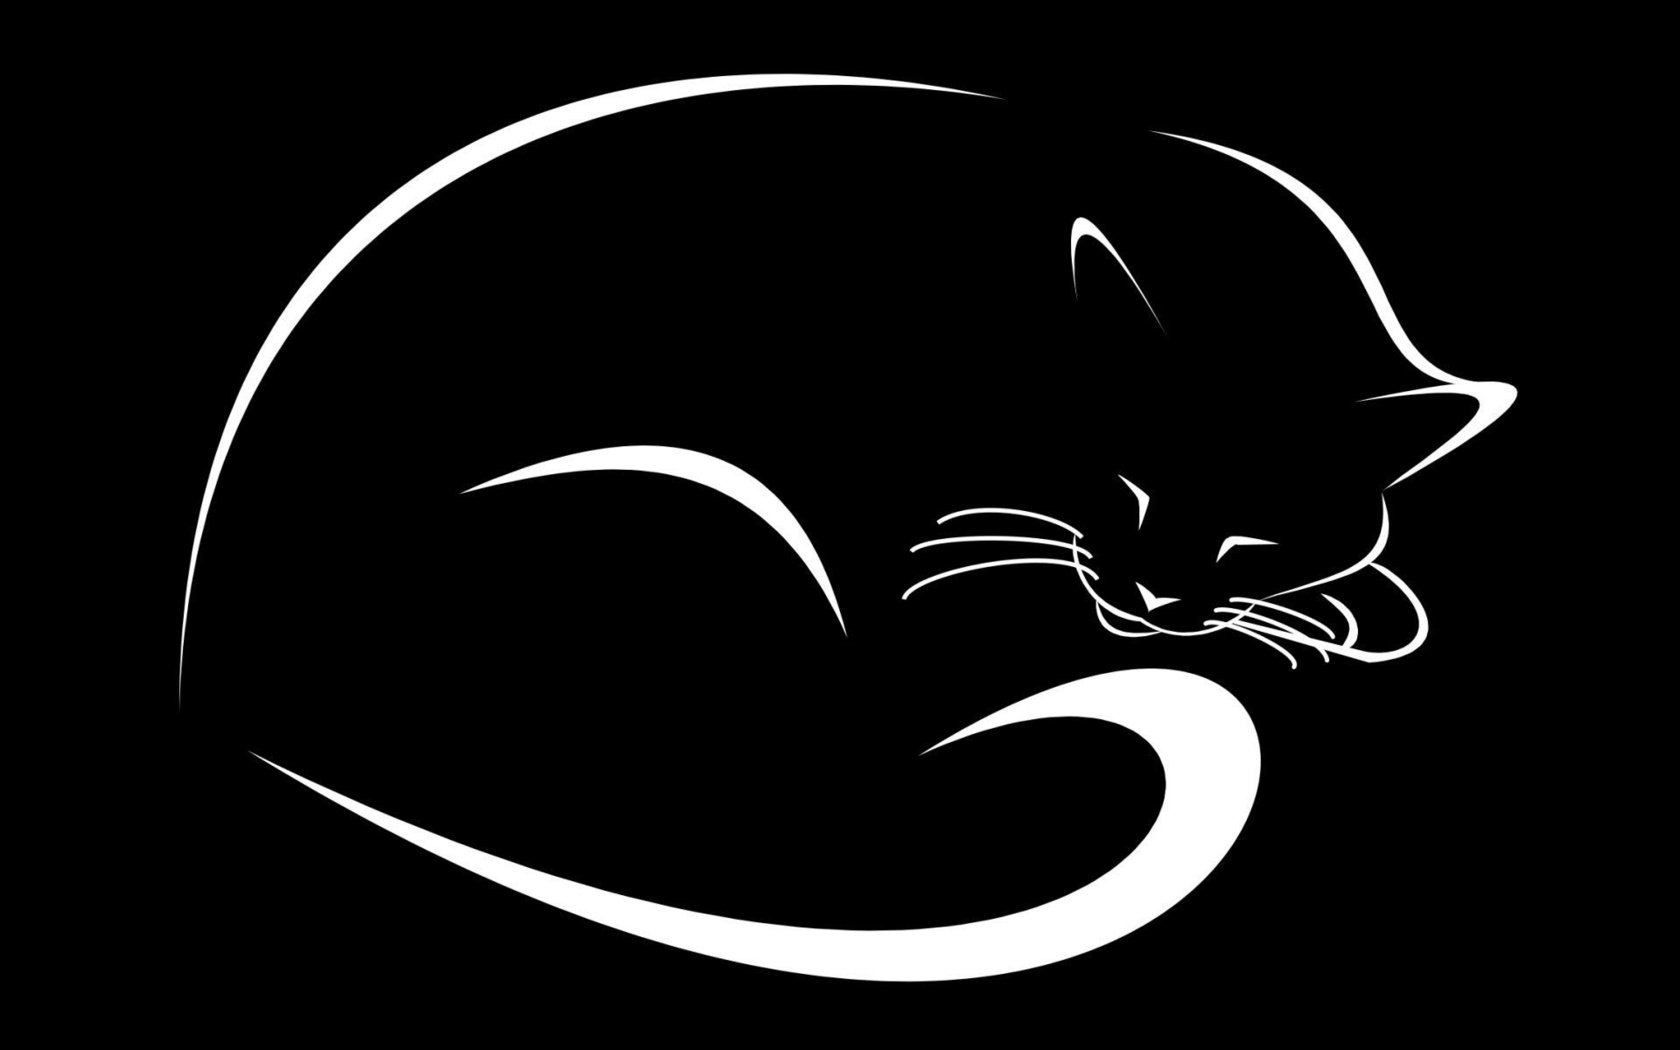
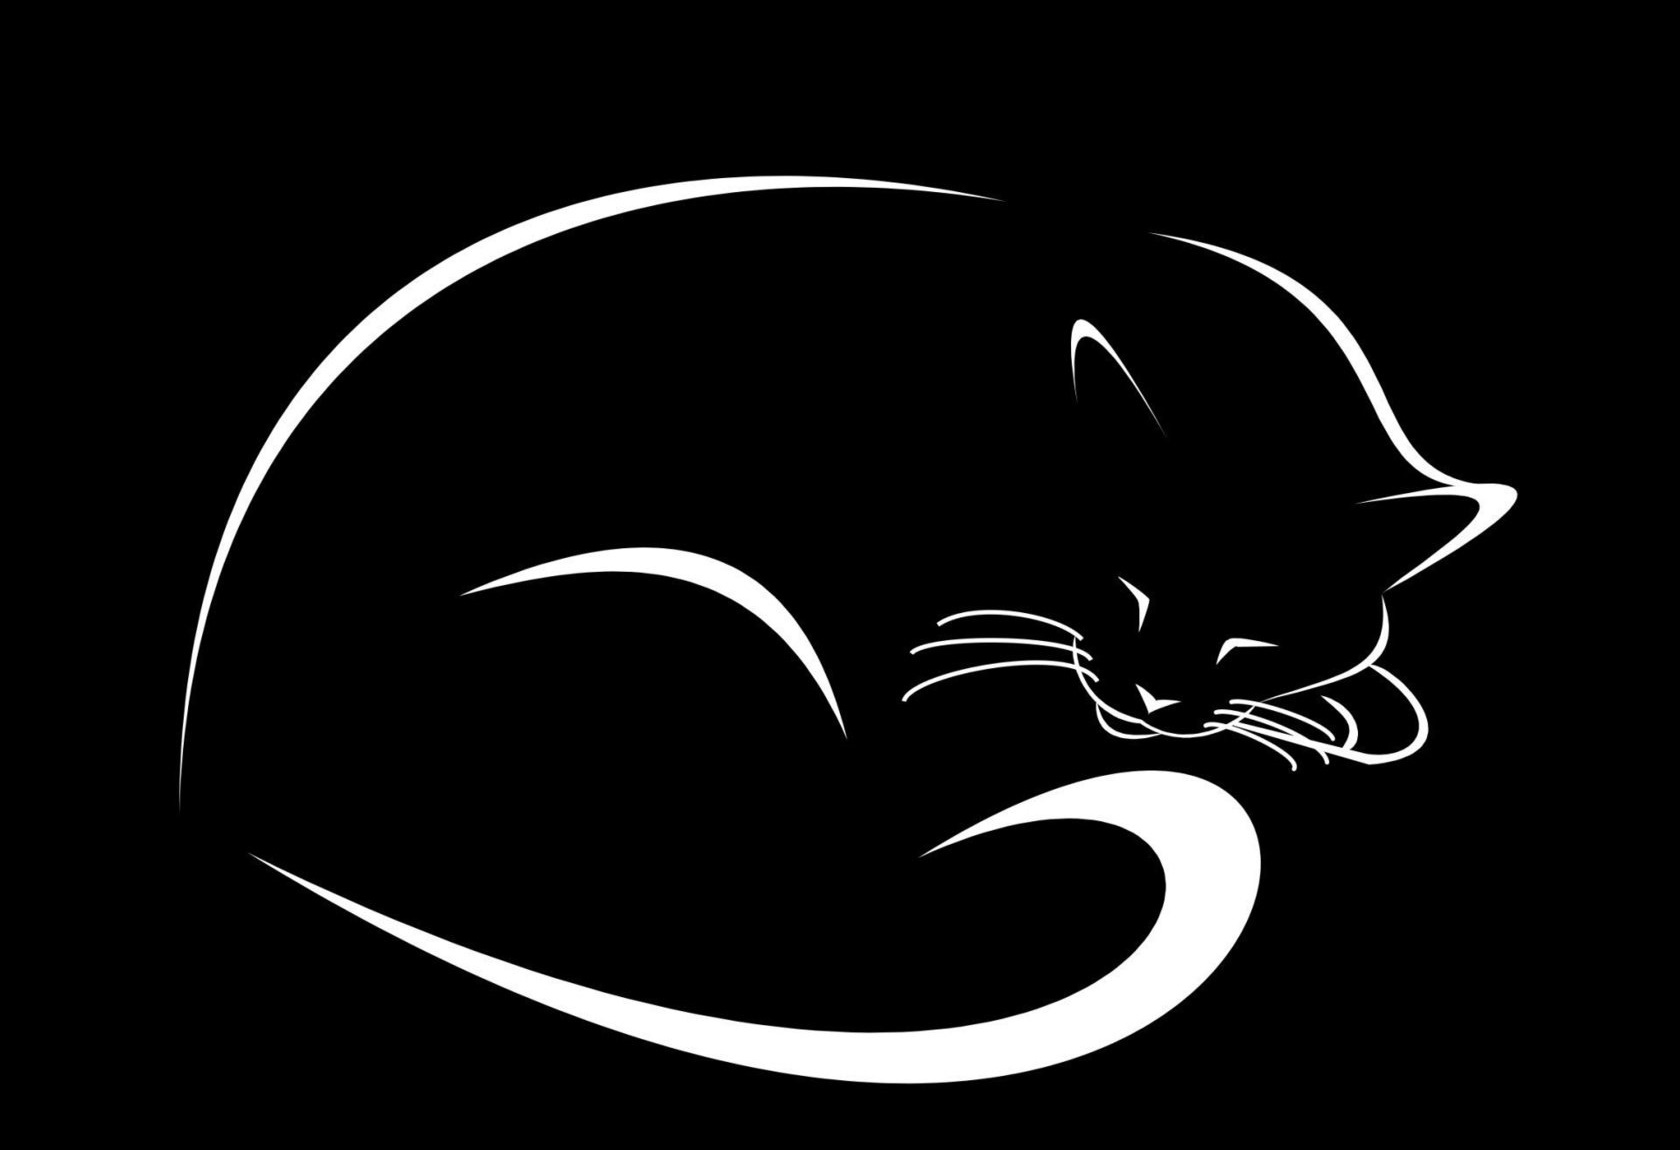
add

diff --git a/src/css/style.css b/src/css/style.css
@@ -66,7 +66,7 @@ body {
 @media screen and (min-width: 768px) {
   .container {
     width: 768px;
-    padding-top: 60px;
+    padding-top: 100px;
     min-height: 600px;
     background-size: cover;
   }
@@ -75,8 +75,8 @@ body {
 @media screen and (min-width: 1280px) {
   .container {
     width: 1280px;
-    padding-top: 80px;
-    min-height: 750px;
+    padding-top: 160px;
+    min-height: 830px;
     background-size: cover;
   }
 }
@@ -89,13 +89,13 @@ body {
 
 @media screen and (min-width: 768px) {
   .cat-info {
-    padding: 400px 10px 30px 10px
+    padding: 380px 10px 30px 10px
   }
 }
 
 @media screen and (min-width: 1280px) {
   .cat-info {
-    padding: 490px 10px 30px 10px;
+    padding: 510px 10px 30px 10px;
   }
 }
 
